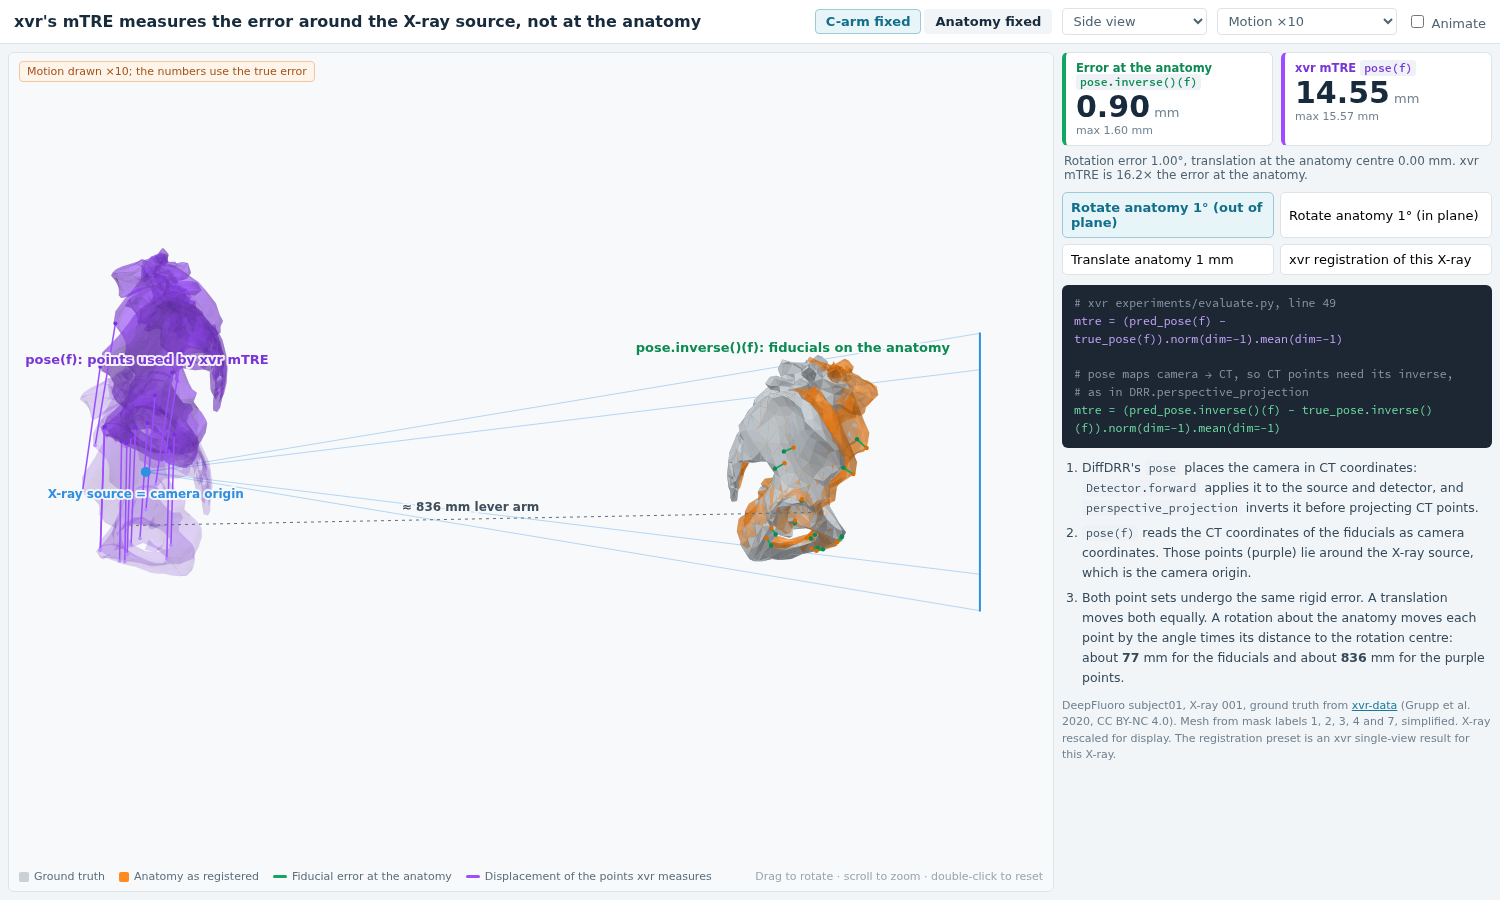
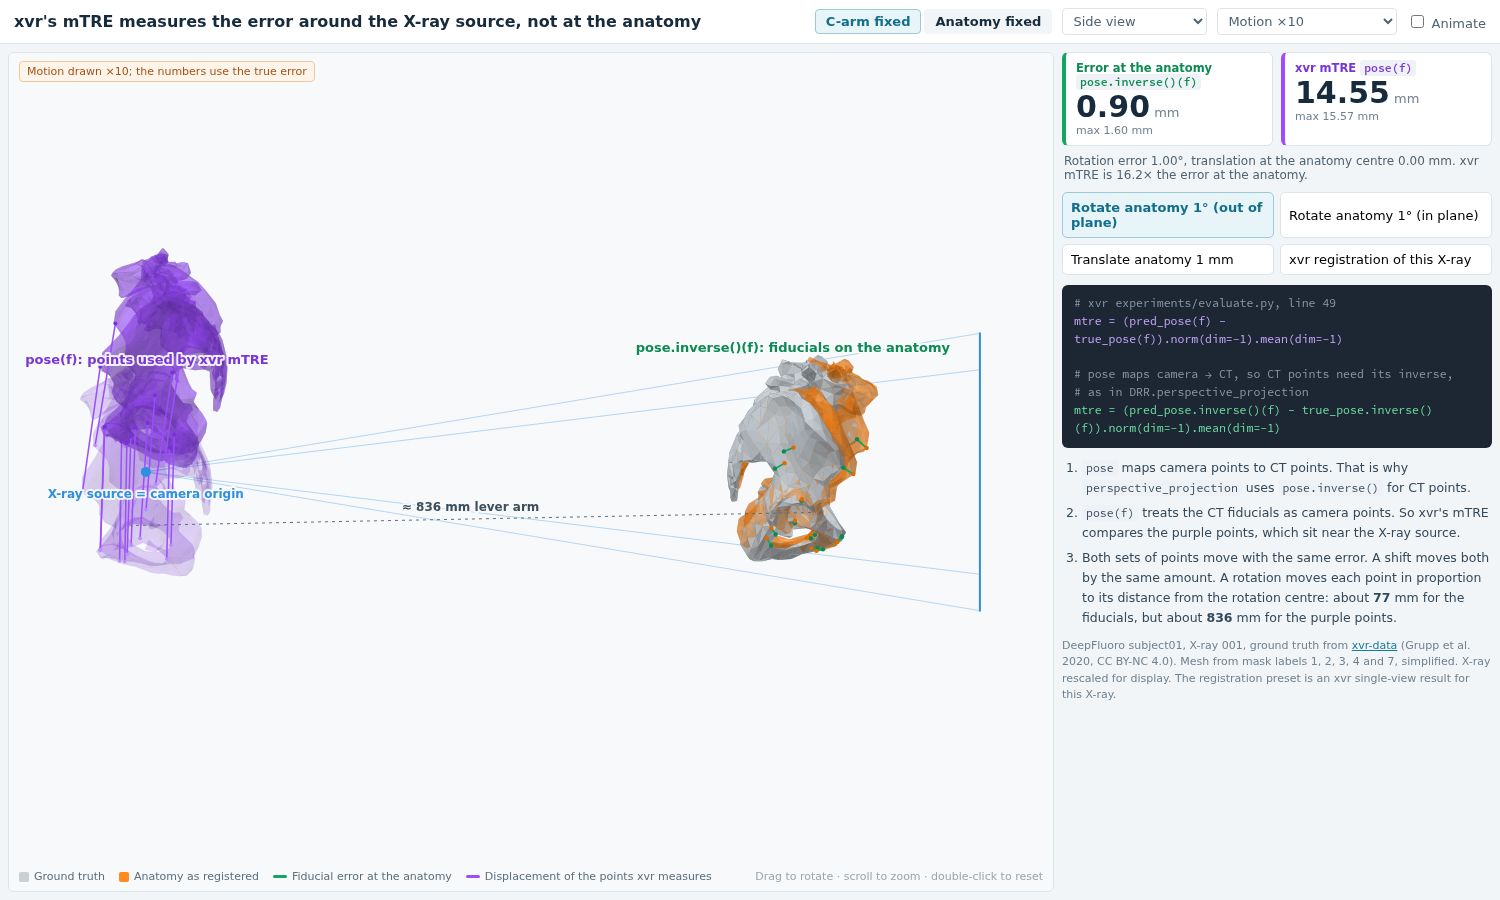
change wording

Changed region(s): [[0.7053, 0.4978, 1.0, 0.84]]

diff --git a/index.html b/index.html
@@ -71,9 +71,9 @@
 <span class="g">mtre = (pred_pose.inverse()(f) - true_pose.inverse()(f)).norm(dim=-1).mean(dim=-1)</span></pre>
 
       <ol class="why">
-        <li>DiffDRR's <code>pose</code> places the camera in CT coordinates: <code>Detector.forward</code> applies it to the source and detector, and <code>perspective_projection</code> inverts it before projecting CT points.</li>
-        <li><code>pose(f)</code> reads the CT coordinates of the fiducials as camera coordinates. Those points (purple) lie around the X-ray source, which is the camera origin.</li>
-        <li>Both point sets undergo the same rigid error. A translation moves both equally. A rotation about the anatomy moves each point by the angle times its distance to the rotation centre: about <b id="radius">–</b> mm for the fiducials and about <b id="lever">–</b> mm for the purple points.</li>
+        <li><code>pose</code> maps camera points to CT points. That is why <code>perspective_projection</code> uses <code>pose.inverse()</code> for CT points.</li>
+        <li><code>pose(f)</code> treats the CT fiducials as camera points. So xvr's mTRE compares the purple points, which sit near the X-ray source.</li>
+        <li>Both sets of points move with the same error. A shift moves both by the same amount. A rotation moves each point in proportion to its distance from the rotation centre: about <b id="radius">–</b> mm for the fiducials, but about <b id="lever">–</b> mm for the purple points.</li>
       </ol>
 
       <p class="data">DeepFluoro subject01, X-ray 001, ground truth from <a href="https://huggingface.co/datasets/eigenvivek/xvr-data">xvr-data</a> (Grupp et al. 2020, CC BY-NC 4.0). Mesh from mask labels 1, 2, 3, 4 and 7, simplified. X-ray rescaled for display. The registration preset is an xvr single-view result for this X-ray.</p>

diff --git a/README.md b/README.md
@@ -1,25 +1,35 @@
 # xvr mTRE: where is the error measured?
 
-xvr computes mTRE as `pred_pose(fiducials) - true_pose(fiducials)` ([`experiments/evaluate.py`, line 49](https://github.com/eigenvivek/xvr/blob/v0.1.0/experiments/evaluate.py#L49)). In DiffDRR, `pose` maps camera coordinates to CT coordinates, so this reads the CT fiducials as camera-frame points, which lie around the X-ray source. Rotation errors are then scaled by the source-to-anatomy distance (about 840 mm here) instead of the size of the anatomy (about 80 mm).
+Hi Vivek, I made this small demo to go with my issue about the mTRE in xvr.
 
-**[Interactive demo](https://jianfengyue.github.io/xvr-mtre-demo/)** (or download the repository and open `index.html`).
+I believe the mTRE in [`experiments/evaluate.py`, line 49](https://github.com/eigenvivek/xvr/blob/caa55cc8096294cf70a218126bf16008dee0dec7/experiments/evaluate.py#L49) applies the pose in the wrong direction. `pose` maps camera points to CT points. Applying it to the CT fiducials treats them as camera points, so the compared points (purple) end up near the X-ray source instead of on the anatomy (green). This makes rotation errors much larger.
+
+To run the demo, open `index.html` in a browser.
 
 ![Demo](preview.png)
 
-DeepFluoro subject01, X-ray 001:
+The numbers below use DeepFluoro subject01, X-ray 001:
 
-| Error | At the anatomy, `pose.inverse()(f)` | xvr mTRE, `pose(f)` |
+| Error | Fiducials, `pose.inverse()(f)` | Current mTRE, `pose(f)` |
 |---|---:|---:|
-| Rotate the anatomy 1° about its centre, out of plane | 0.90 mm | 14.55 mm |
-| Rotate the anatomy 1° about its centre, in plane | 1.20 mm | 1.30 mm |
-| Translate the anatomy 1 mm | 1.00 mm | 1.00 mm |
-| An xvr single-view registration of this X-ray | 0.49 mm | 2.90 mm |
+| Rotate the pelvis 1° (out of plane) | 0.90 mm | 14.55 mm |
+| Rotate the pelvis 1° (in plane) | 1.20 mm | 1.30 mm |
+| Move the pelvis 1 mm | 1.00 mm | 1.00 mm |
+| An xvr registration of this X-ray | 0.49 mm | 2.90 mm |
 
-Suggested change, using the same direction as `DRR.perspective_projection`:
+Using the inverse, like `perspective_projection` does, measures the error at the fiducials:
 
 ```diff
 -        mtre = (pred_pose(self.fiducials) - true_pose(self.fiducials)).norm(dim=-1).mean(dim=-1)
 +        mtre = (pred_pose.inverse()(self.fiducials) - true_pose.inverse()(self.fiducials)).norm(dim=-1).mean(dim=-1)
 ```
 
-Data: DeepFluoro (Grupp et al. 2020, CC BY-NC 4.0) from [xvr-data](https://huggingface.co/datasets/eigenvivek/xvr-data). The ground-truth pose is the current `deepfluoro/subject01/xrays/001.pt`. The mesh is extracted from mask labels 1, 2, 3, 4 and 7 and simplified, and the X-ray is rescaled for display. `tools/prepare_data.py` regenerates `data/` from a local copy of xvr-data. The code is under the MIT license; the files in `data/` remain under CC BY-NC 4.0.
+Of course, if I've misunderstood something, please let me know.
+
+Thanks a lot for DiffDRR, DiffPose and xvr. I've learned a lot from them.
+
+Jianfeng
+
+---
+
+Data: DeepFluoro (Grupp et al. 2020, CC BY-NC 4.0) from [xvr-data](https://huggingface.co/datasets/eigenvivek/xvr-data). The mesh comes from mask labels 1, 2, 3, 4 and 7, simplified. `tools/prepare_data.py` rebuilds `data/` from xvr-data. Code: MIT. Files in `data/`: CC BY-NC 4.0.
